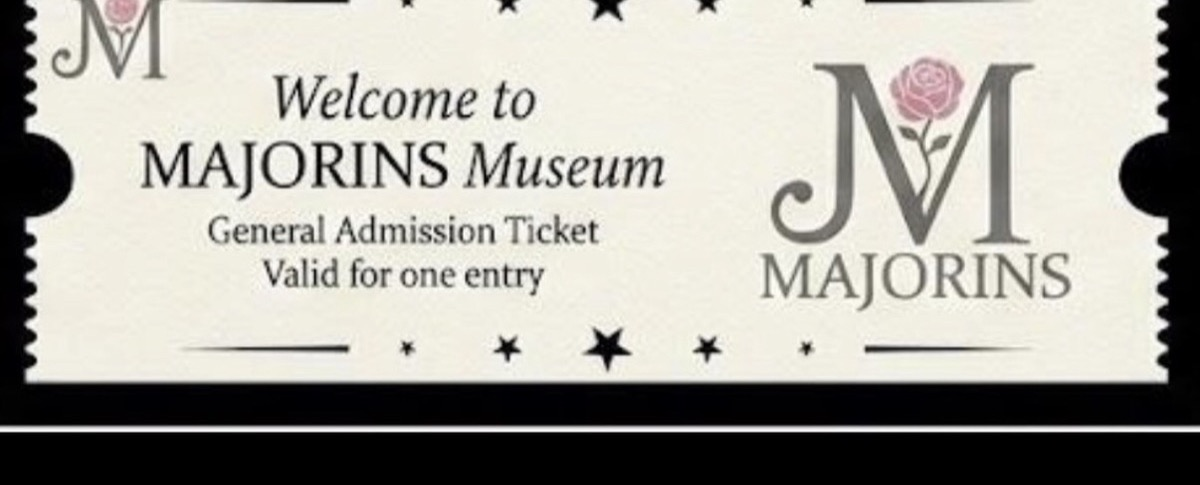
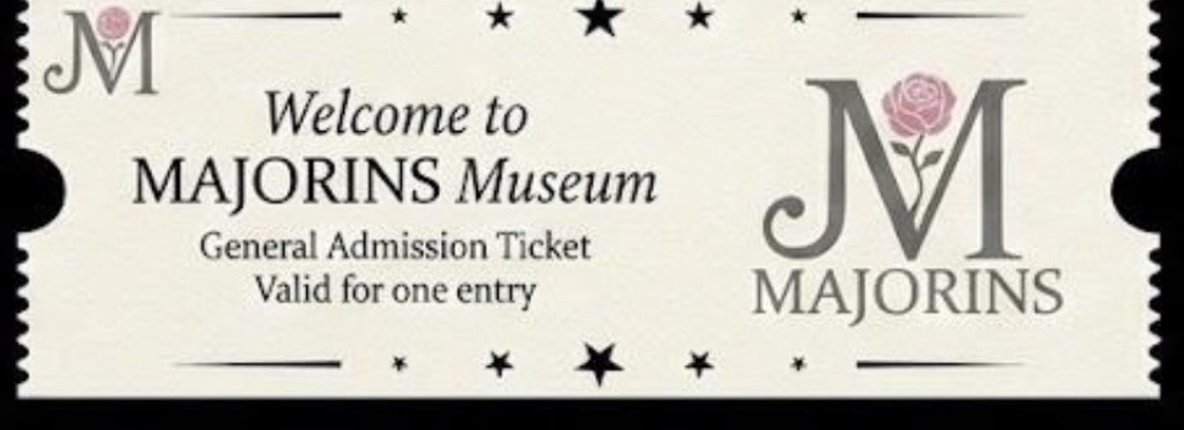
チケット画面の余白を詰め、画像の黒帯を除去する。
space-between による縦引き伸ばしをやめ、チケット JPG を本体部分だけに再トリミングした。

diff --git a/0617_ver01.html b/0617_ver01.html
@@ -2103,37 +2103,42 @@
       },
 
       ticketScreen: {
-        minHeight: '100dvh',
+        height: '100dvh',
+        maxHeight: '100dvh',
         background: '#0a0a0a',
         display: 'flex',
         alignItems: 'center',
         justifyContent: 'center',
-        padding: '32px 24px',
+        padding: '16px 20px',
+        boxSizing: 'border-box',
         position: 'relative',
         zIndex: 5,
+        overflow: 'hidden',
       },
       ticketScreenInner: {
         width: '100%',
-        maxWidth: '700px',
+        maxWidth: '720px',
         display: 'flex',
         flexDirection: 'column',
         alignItems: 'center',
-        justifyContent: 'space-between',
+        justifyContent: 'center',
         textAlign: 'center',
-        gap: '18px',
-        minHeight: 'calc(100dvh - 64px)',
+        gap: '8px',
+        flex: '0 0 auto',
       },
       ticketTopBlock: {
         width: '100%',
+        flexShrink: 0,
       },
       ticketBottomBlock: {
         width: '100%',
+        flexShrink: 0,
       },
       ticketTitle: {
         fontFamily: "'Cormorant Garamond', serif",
         fontSize: 'clamp(26px, 4vw, 36px)',
         letterSpacing: '0.08em',
-        margin: '0 0 14px',
+        margin: '0 0 8px',
         fontWeight: 500,
         color: '#f5f0e8',
       },
@@ -2141,40 +2146,46 @@
         fontFamily: "'Noto Serif JP', serif",
         fontSize: 'clamp(11px, 2vw, 13px)',
         color: '#c8bfae',
-        margin: '3px 0',
+        margin: '2px 0',
         letterSpacing: '0.2em',
-        lineHeight: 1.9,
+        lineHeight: 1.7,
         fontWeight: 300,
       },
       ticketArea: {
         cursor: 'pointer',
-        display: 'flex',
-        justifyContent: 'center',
-        margin: '4px 0',
+        display: 'block',
+        margin: 0,
+        padding: 0,
         width: '100%',
+        lineHeight: 0,
+        fontSize: 0,
+        flexShrink: 0,
         willChange: 'transform, opacity',
       },
       ticketImage: {
-        width: '100%',
-        maxWidth: '420px',
+        width: 'min(94vw, 620px)',
+        maxWidth: '620px',
         height: 'auto',
         display: 'block',
+        margin: 0,
+        padding: 0,
+        verticalAlign: 'top',
         userSelect: 'none',
       },
       closingJp: {
         fontFamily: "'Noto Serif JP', serif",
         fontSize: 'clamp(12px, 2.2vw, 14px)',
         color: '#d8d0bf',
-        margin: '4px 0',
+        margin: '2px 0',
         letterSpacing: '0.12em',
-        lineHeight: 1.9,
+        lineHeight: 1.7,
       },
       actionHint: {
         display: 'flex',
         flexDirection: 'column',
         alignItems: 'center',
-        gap: '8px',
-        marginTop: '14px',
+        gap: '6px',
+        marginTop: '6px',
       },
       hintEn: {
         fontFamily: "'Cormorant Garamond', serif",

diff --git a/0617_ver02.html b/0617_ver02.html
@@ -2024,37 +2024,42 @@
       },
 
       ticketScreen: {
-        minHeight: '100dvh',
+        height: '100dvh',
+        maxHeight: '100dvh',
         background: '#0a0a0a',
         display: 'flex',
         alignItems: 'center',
         justifyContent: 'center',
-        padding: '32px 24px',
+        padding: '16px 20px',
+        boxSizing: 'border-box',
         position: 'relative',
         zIndex: 5,
+        overflow: 'hidden',
       },
       ticketScreenInner: {
         width: '100%',
-        maxWidth: '700px',
+        maxWidth: '720px',
         display: 'flex',
         flexDirection: 'column',
         alignItems: 'center',
-        justifyContent: 'space-between',
+        justifyContent: 'center',
         textAlign: 'center',
-        gap: '18px',
-        minHeight: 'calc(100dvh - 64px)',
+        gap: '8px',
+        flex: '0 0 auto',
       },
       ticketTopBlock: {
         width: '100%',
+        flexShrink: 0,
       },
       ticketBottomBlock: {
         width: '100%',
+        flexShrink: 0,
       },
       ticketTitle: {
         fontFamily: "'Cormorant Garamond', serif",
         fontSize: 'clamp(26px, 4vw, 36px)',
         letterSpacing: '0.08em',
-        margin: '0 0 14px',
+        margin: '0 0 8px',
         fontWeight: 500,
         color: '#f5f0e8',
       },
@@ -2062,40 +2067,46 @@
         fontFamily: "'Noto Serif JP', serif",
         fontSize: 'clamp(11px, 2vw, 13px)',
         color: '#c8bfae',
-        margin: '3px 0',
+        margin: '2px 0',
         letterSpacing: '0.2em',
-        lineHeight: 1.9,
+        lineHeight: 1.7,
         fontWeight: 300,
       },
       ticketArea: {
         cursor: 'pointer',
-        display: 'flex',
-        justifyContent: 'center',
-        margin: '4px 0',
+        display: 'block',
+        margin: 0,
+        padding: 0,
         width: '100%',
+        lineHeight: 0,
+        fontSize: 0,
+        flexShrink: 0,
         willChange: 'transform, opacity',
       },
       ticketImage: {
-        width: '100%',
-        maxWidth: '420px',
+        width: 'min(94vw, 620px)',
+        maxWidth: '620px',
         height: 'auto',
         display: 'block',
+        margin: 0,
+        padding: 0,
+        verticalAlign: 'top',
         userSelect: 'none',
       },
       closingJp: {
         fontFamily: "'Noto Serif JP', serif",
         fontSize: 'clamp(12px, 2.2vw, 14px)',
         color: '#d8d0bf',
-        margin: '4px 0',
+        margin: '2px 0',
         letterSpacing: '0.12em',
-        lineHeight: 1.9,
+        lineHeight: 1.7,
       },
       actionHint: {
         display: 'flex',
         flexDirection: 'column',
         alignItems: 'center',
-        gap: '8px',
-        marginTop: '14px',
+        gap: '6px',
+        marginTop: '6px',
       },
       hintEn: {
         fontFamily: "'Cormorant Garamond', serif",

diff --git a/index.html b/index.html
@@ -2024,37 +2024,42 @@
       },
 
       ticketScreen: {
-        minHeight: '100dvh',
+        height: '100dvh',
+        maxHeight: '100dvh',
         background: '#0a0a0a',
         display: 'flex',
         alignItems: 'center',
         justifyContent: 'center',
-        padding: '32px 24px',
+        padding: '16px 20px',
+        boxSizing: 'border-box',
         position: 'relative',
         zIndex: 5,
+        overflow: 'hidden',
       },
       ticketScreenInner: {
         width: '100%',
-        maxWidth: '700px',
+        maxWidth: '720px',
         display: 'flex',
         flexDirection: 'column',
         alignItems: 'center',
-        justifyContent: 'space-between',
+        justifyContent: 'center',
         textAlign: 'center',
-        gap: '18px',
-        minHeight: 'calc(100dvh - 64px)',
+        gap: '8px',
+        flex: '0 0 auto',
       },
       ticketTopBlock: {
         width: '100%',
+        flexShrink: 0,
       },
       ticketBottomBlock: {
         width: '100%',
+        flexShrink: 0,
       },
       ticketTitle: {
         fontFamily: "'Cormorant Garamond', serif",
         fontSize: 'clamp(26px, 4vw, 36px)',
         letterSpacing: '0.08em',
-        margin: '0 0 14px',
+        margin: '0 0 8px',
         fontWeight: 500,
         color: '#f5f0e8',
       },
@@ -2062,40 +2067,46 @@
         fontFamily: "'Noto Serif JP', serif",
         fontSize: 'clamp(11px, 2vw, 13px)',
         color: '#c8bfae',
-        margin: '3px 0',
+        margin: '2px 0',
         letterSpacing: '0.2em',
-        lineHeight: 1.9,
+        lineHeight: 1.7,
         fontWeight: 300,
       },
       ticketArea: {
         cursor: 'pointer',
-        display: 'flex',
-        justifyContent: 'center',
-        margin: '4px 0',
+        display: 'block',
+        margin: 0,
+        padding: 0,
         width: '100%',
+        lineHeight: 0,
+        fontSize: 0,
+        flexShrink: 0,
         willChange: 'transform, opacity',
       },
       ticketImage: {
-        width: '100%',
-        maxWidth: '420px',
+        width: 'min(94vw, 620px)',
+        maxWidth: '620px',
         height: 'auto',
         display: 'block',
+        margin: 0,
+        padding: 0,
+        verticalAlign: 'top',
         userSelect: 'none',
       },
       closingJp: {
         fontFamily: "'Noto Serif JP', serif",
         fontSize: 'clamp(12px, 2.2vw, 14px)',
         color: '#d8d0bf',
-        margin: '4px 0',
+        margin: '2px 0',
         letterSpacing: '0.12em',
-        lineHeight: 1.9,
+        lineHeight: 1.7,
       },
       actionHint: {
         display: 'flex',
         flexDirection: 'column',
         alignItems: 'center',
-        gap: '8px',
-        marginTop: '14px',
+        gap: '6px',
+        marginTop: '6px',
       },
       hintEn: {
         fontFamily: "'Cormorant Garamond', serif",
